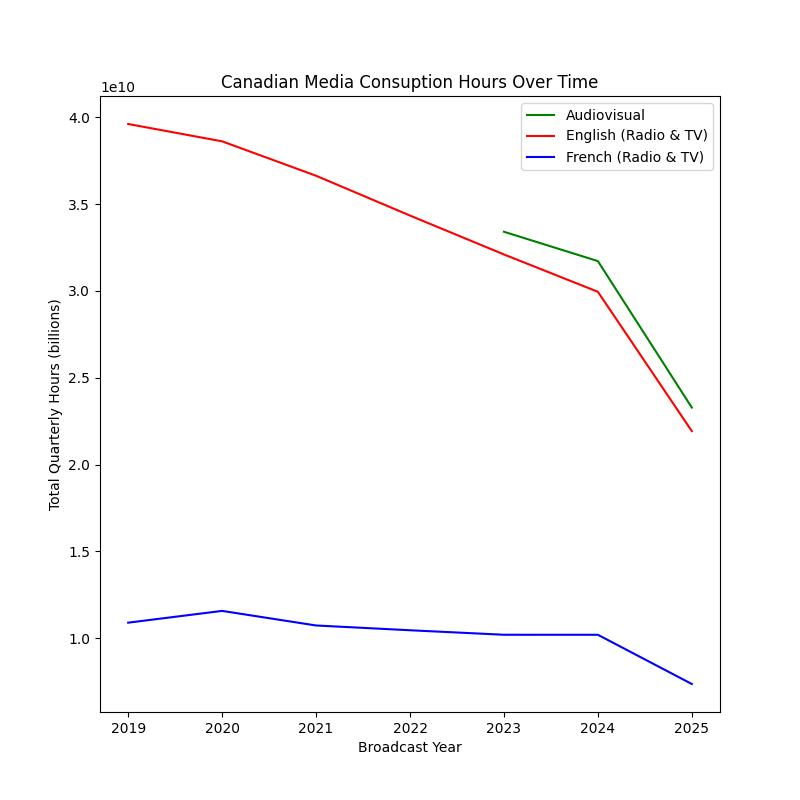
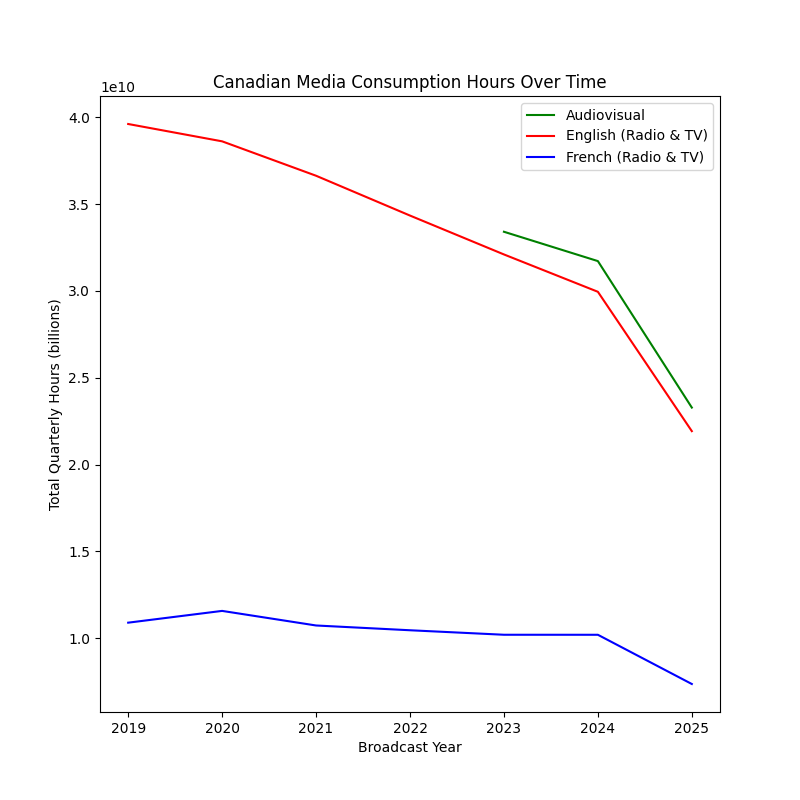
edit final details

diff --git a/src/trend_lines.py b/src/trend_lines.py
@@ -2,9 +2,9 @@ import pandas as pd
 import matplotlib.pyplot as plt
 
 #Import clean datasets
-audiovisual_clean = pd.read_csv(r"C:\Users\rlynj\OneDrive\Documents\Project-2\data\cleaned\audiovisual_cleaned.csv")
-radio_clean = pd.read_csv(r"C:\Users\rlynj\OneDrive\Documents\Project-2\data\cleaned\radio_cleaned.csv")
-television_clean = pd.read_csv(r"C:\Users\rlynj\OneDrive\Documents\Project-2\data\cleaned\television_cleaned.csv")
+audiovisual_clean = pd.read_csv(r"/workspaces/Project-2/data/cleaned/audiovisual_cleaned.csv")
+radio_clean = pd.read_csv(r"/workspaces/Project-2/data/cleaned/radio_cleaned.csv")
+television_clean = pd.read_csv(r"/workspaces/Project-2/data/cleaned/television_cleaned.csv")
 
 #Total hours consumed from newer digital audiovisual channels
 av_total_hours = audiovisual_clean.groupby("Broadcast_Year")["Total_Quarterly_Hours"].sum().reset_index()
@@ -29,7 +29,7 @@ plt.legend()
 
 plt.xlabel("Broadcast Year")
 plt.ylabel("Total Quarterly Hours (billions)")
-plt.title("Canadian Media Consuption Hours Over Time")
+plt.title("Canadian Media Consumption Hours Over Time")
 
 #Save figure
-plt.savefig(r"C:\Users\rlynj\OneDrive\Documents\Project-2\docs\consumption_hours_over_time.jpg")
+plt.savefig("/workspaces/Project-2/docs/consumption_hours_over_time.png")